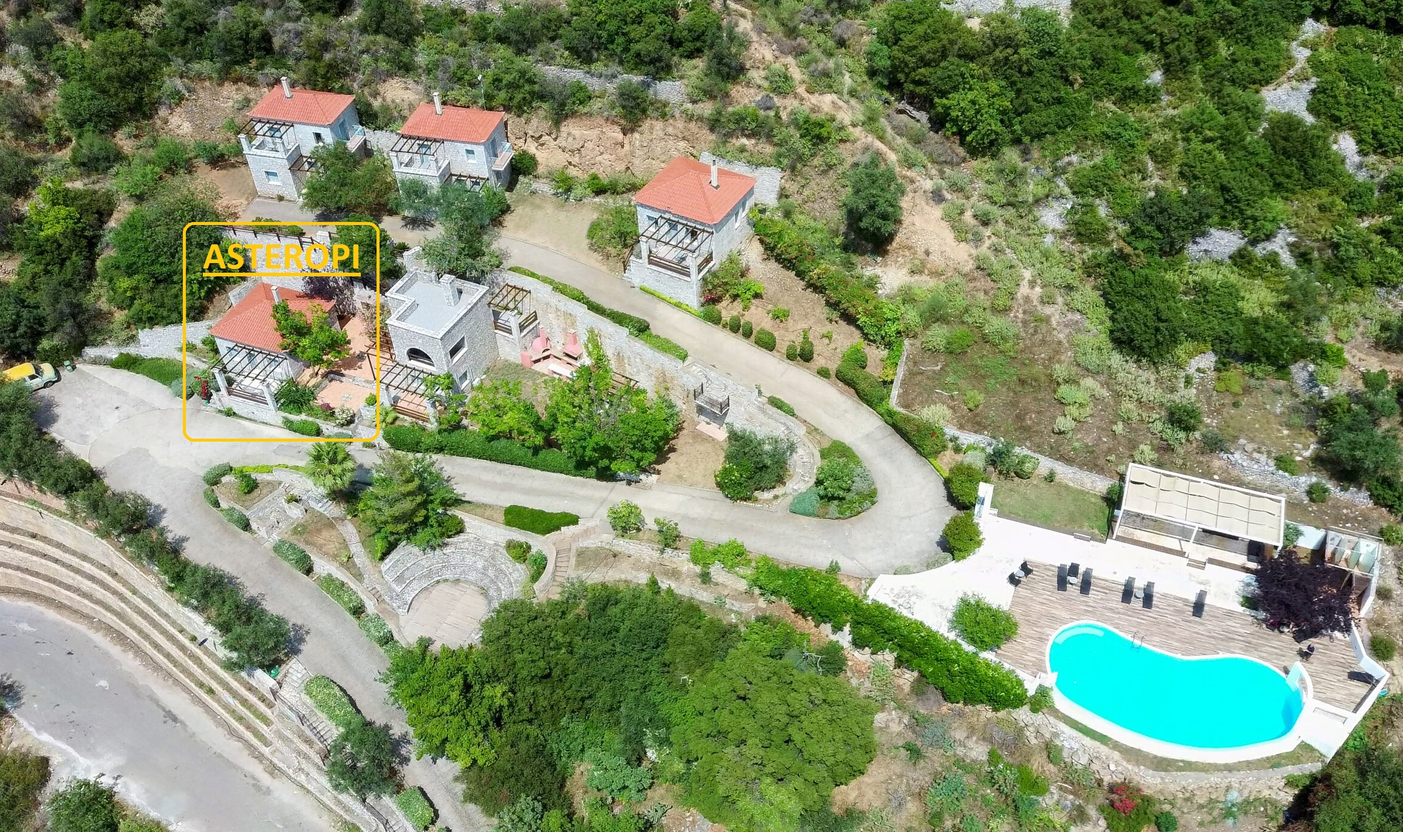
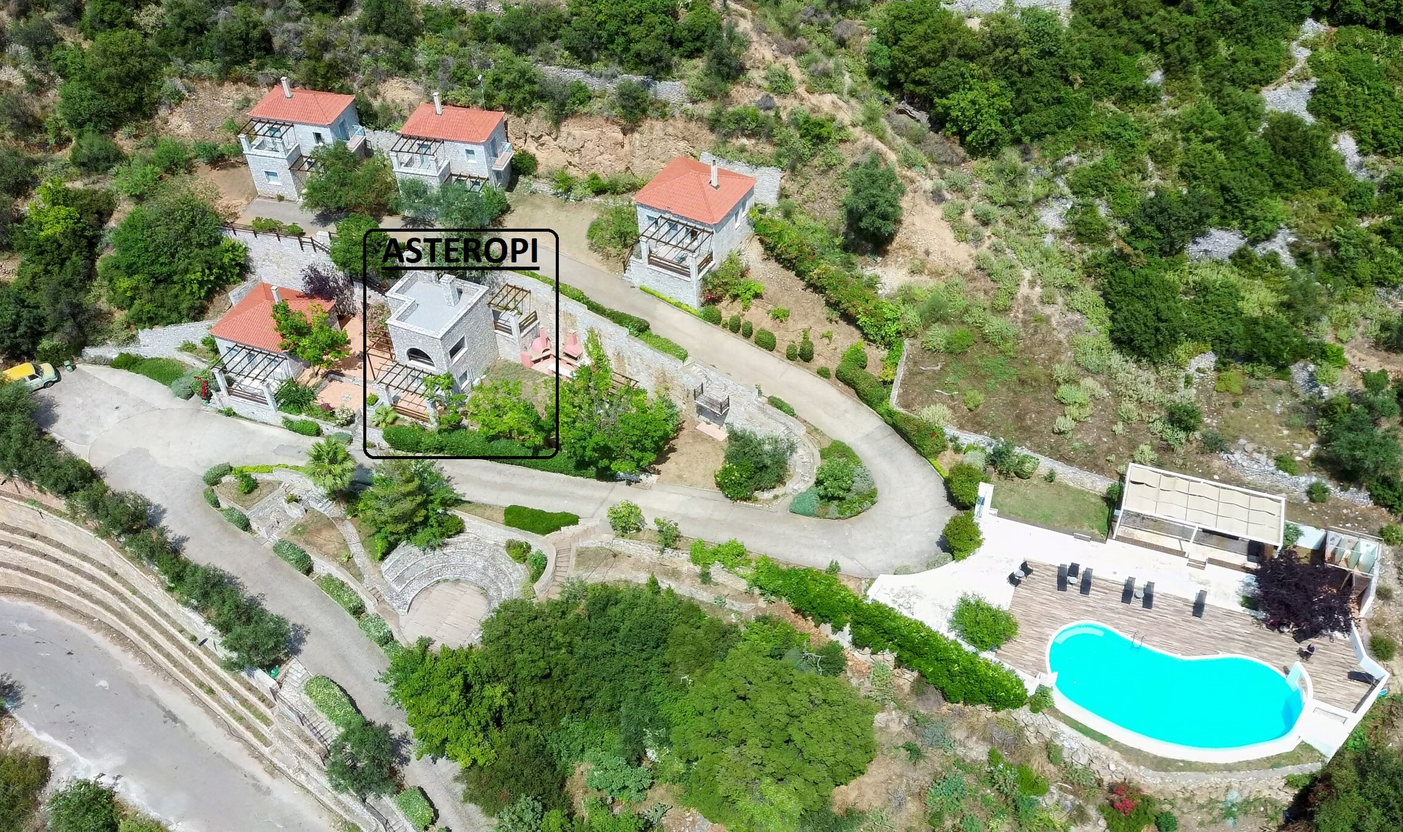
Add files via upload

Changed region(s): [[0.1239, 0.2495, 0.4026, 0.5613], [0.1239, 0.3742, 0.1548, 0.4054]]

diff --git a/check_in.html b/check_in.html
@@ -53,7 +53,7 @@
             </div>
             </div>
 
-            <h2 class="section-heading">The Second Villa is Asteropi</h2>
+            <h2 class="section-heading">The First Villa is Asteropi</h2>
             <div class="image-container">
             <img src="images/ASTEROPI PLAI.jpg" id="villa-image" alt="Meropi Villa Front View" />
             <img src="images/ASTEROPI FRONT.jpg" id="villa-image" alt="Meropi Villa Front View" />
